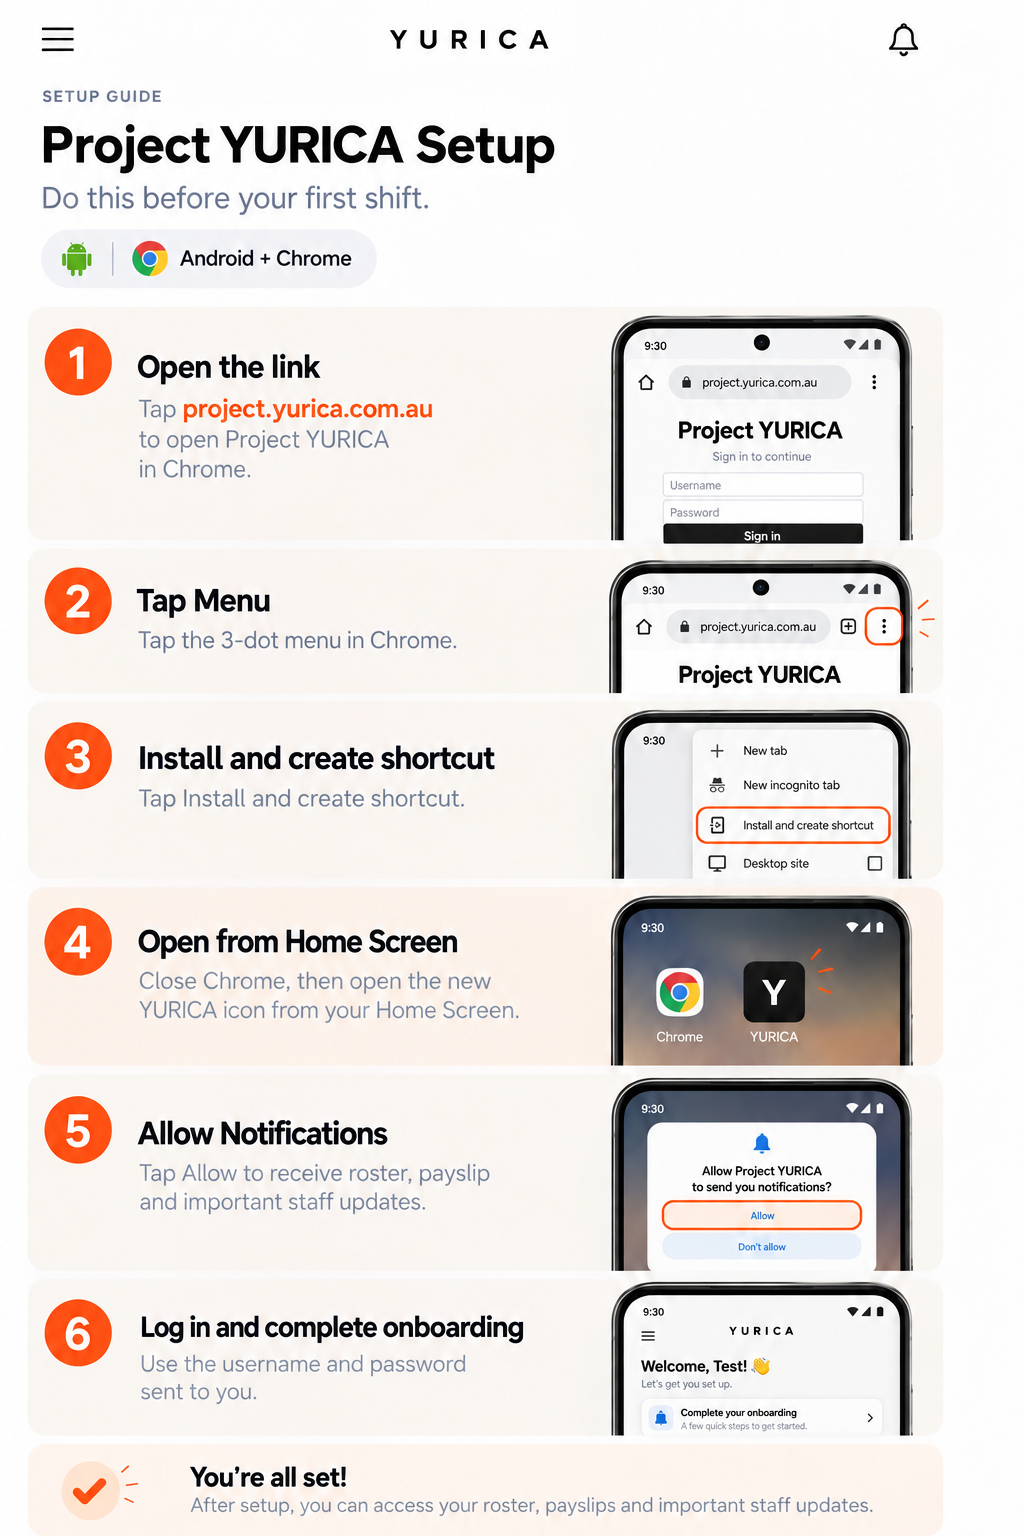
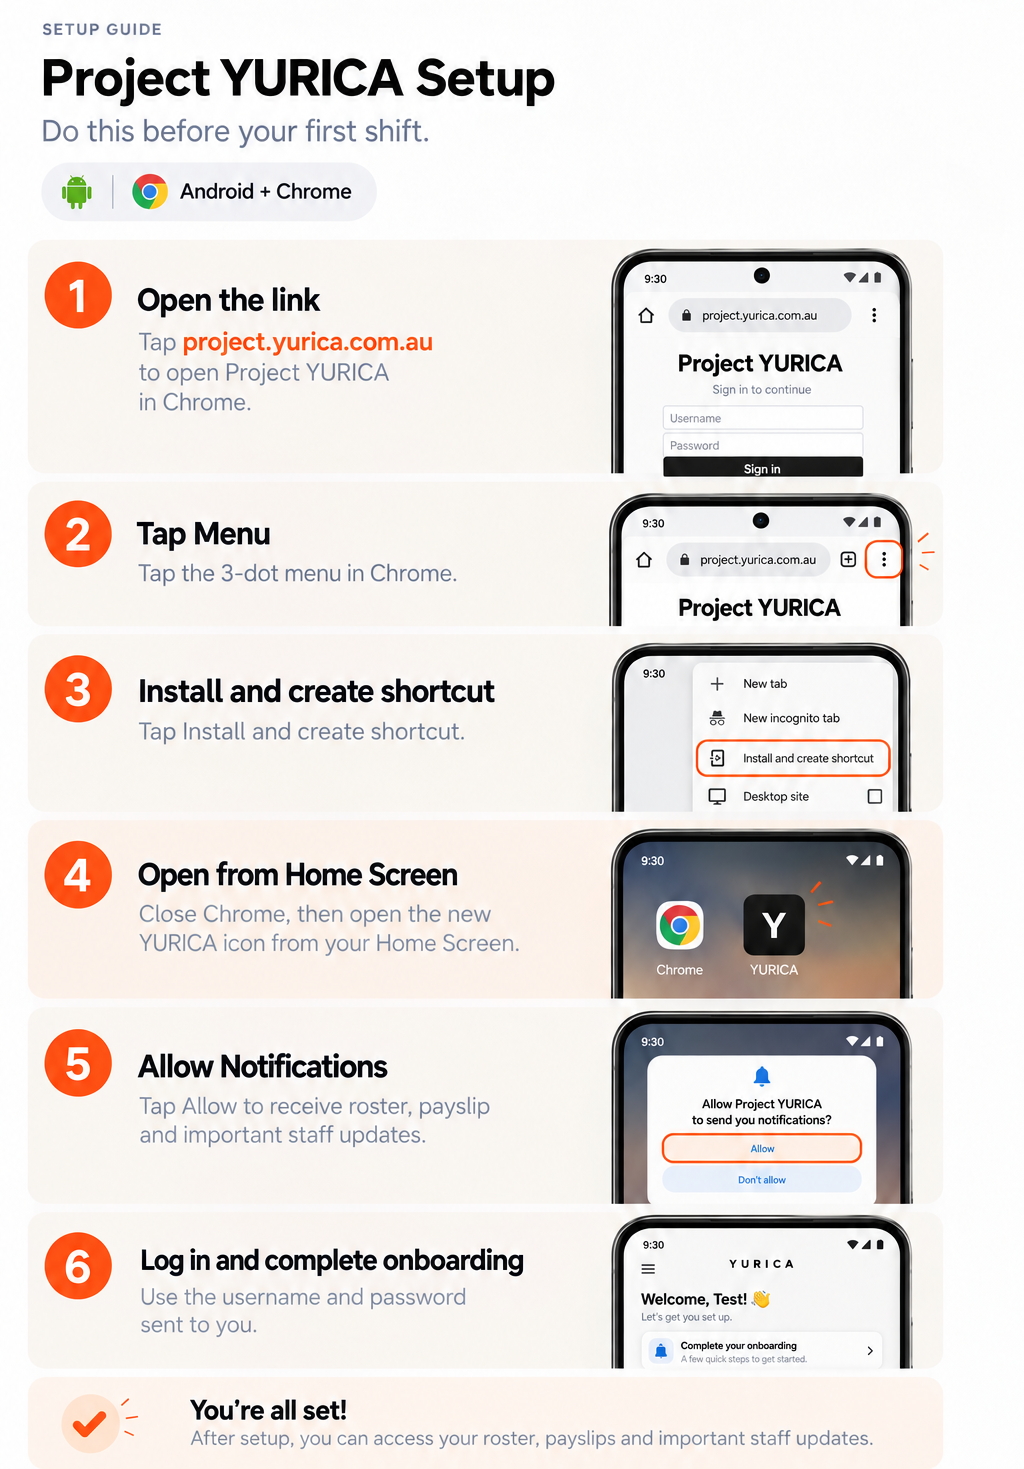
Drop the drawn app header from both setup guides
The artwork was exported with the app's own top bar drawn into it — a
hamburger and a bell. The setup guide renders in the public shell,
which has no header, so those were a picture of controls that are not
there: a new hire's first screen from us, inviting two taps that do
nothing. Cropped off at the point where the page's own top margin
resumes, so each guide keeps the breathing room it was drawn with.

The iPhone artwork is the real Safari guide now, so that route becomes
a poster too and the written steps stop being what anyone sees. The
text version is left in the tree rather than deleted: it is not
imported, so it costs nothing, and it is one line away if a platform
ever needs words again.

diff --git a/src/app/guide_link/iphone/page.tsx b/src/app/guide_link/iphone/page.tsx
@@ -1,12 +1,25 @@
 import type { Metadata } from "next";
 import { HOME_SCREEN_NAME } from "@/lib/brand";
-import SetupSteps from "../SetupSteps";
+/* See the note on the Android page: imported rather than referenced by URL so
+   the optimiser can re-encode it and the intrinsic size comes from the file. */
+import poster from "../../../../public/guide/iphone.png";
+import SetupPoster from "../SetupPoster";
 import { PLATFORMS } from "../platforms";
 
 export const metadata: Metadata = {
   title: `Add ${HOME_SCREEN_NAME} to your home screen — ${PLATFORMS.iphone.kicker}`,
 };
 
+/** What the picture says, for a reader who cannot see it. */
+const ALT = `Installing ${HOME_SCREEN_NAME} on iPhone with Safari, in four steps. \
+1. Open the link in Safari: go to project.yurica.com.au. \
+2. Add to Home Screen, following these steps in Safari: tap the tab menu, the three dots, \
+then Share, then View More, then Add to Home Screen. \
+3. Open the YURICA icon: close Safari, then open Project YURICA from your Home Screen. \
+This is important so notifications can be enabled. \
+4. Allow notifications, then log in: tap Allow, then sign in and complete onboarding. \
+After setup, you will receive roster, payslips and important staff updates.`;
+
 export default function IPhoneSetupPage() {
-  return <SetupSteps platform="iphone" />;
+  return <SetupPoster poster={poster} alt={ALT} />;
 }
